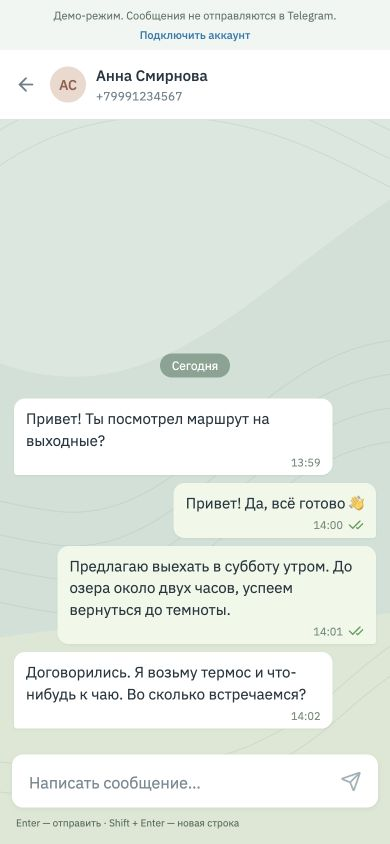
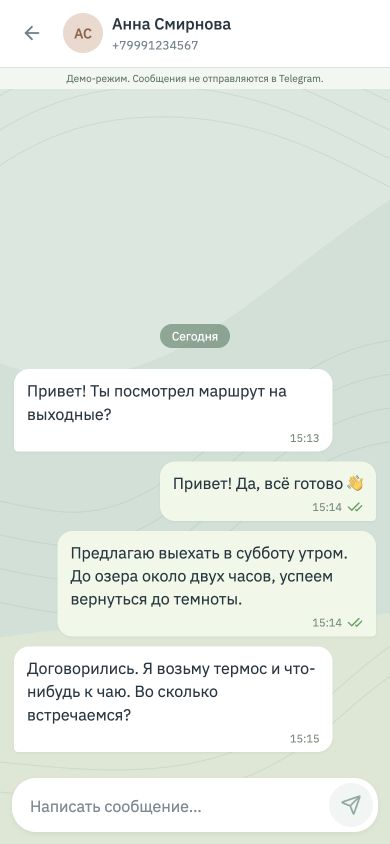
feat(ui): improve mobile chat layout and interactions
- Refine login, chat list and conversation layouts
- Present the new chat dialog as a bottom sheet on mobile
- Increase touch targets and account for safe-area insets
- Adapt the composer to visual viewport changes
- Add a viewport regression test

Changed region(s): [[0.0308, 0.3697, 0.9846, 0.9858], [0.0, 0.0, 1.0, 0.154], [0.0615, 0.0308, 0.0923, 0.0616]]

diff --git a/src/styles.css b/src/styles.css
@@ -35,7 +35,7 @@ label { display: block; font-size: 13px; font-weight: 500; margin-bottom: 8px; }
 .login-page, .workspace { max-width: 1400px; height: calc(100dvh - 40px); min-height: 480px; margin: 0 auto; border: 1px solid #ccd8dc; border-radius: 12px; overflow: hidden; background: #fff; }
 .login-page { display: grid; grid-template-columns: 370px minmax(0, 1fr); }
 .login-panel { display: flex; flex-direction: column; padding: 25px 30px 22px; overflow-y: auto; border-right: 1px solid #dde6e8; }
-.login-panel > .brand { margin-bottom: 26px; }
+.login-brand { margin-bottom: 26px; }
 .login-content { margin: auto 0; }
 .login-content h1 { font-size: 24px; font-weight: 500; line-height: 1.3; letter-spacing: -.6px; margin: 0 0 12px; }
 .login-intro { color: #607581; font-size: 14px; line-height: 1.55; margin: 0 0 27px; }
@@ -182,38 +182,93 @@ label { display: block; font-size: 13px; font-weight: 500; margin-bottom: 8px; }
 }
 @media (max-width: 720px) {
   body { padding: 0; }
-  .workspace, .login-page { height: 100dvh; min-height: 0; border: 0; border-radius: 0; }
-  .login-page { display: block; height: auto; min-height: 100dvh; }
-  .login-panel { min-height: 100dvh; padding: 25px max(26px, calc((100vw - 380px) / 2)); border: 0; }
-  .login-panel > .brand { margin-bottom: 26px; }
-  .login-content { margin: auto 0; }
-  .login-content h1 { font-size: 26px; }
+  .workspace, .login-page { height: var(--mobile-height, 100dvh); min-height: 0; border: 0; border-radius: 0; }
+  .login-page { display: block; height: auto; min-height: var(--mobile-height, 100dvh); background: #fff; }
+  .login-panel { min-height: var(--mobile-height, 100dvh); padding: 0; border: 0; overflow: visible; }
+  .login-brand { background: #d9e8de url('/conversation-paper.svg') center 42% / cover; padding: max(28px, env(safe-area-inset-top)) max(26px, calc((100vw - 380px) / 2)) 32px; margin: 0; }
+  .login-brand .brand { gap: 12px; }
+  .login-brand .brand img { width: 42px; height: 42px; }
+  .login-brand .brand span { font-size: 22px; font-weight: 500; }
+  .login-content { padding: 30px max(26px, calc((100vw - 380px) / 2)) 24px; margin: 0; }
+  .login-content h1 { font-size: 26px; line-height: 1.3; margin-bottom: 12px; }
+  .login-intro { margin-bottom: 28px; font-size: 15px; }
+  .input-with-icon { height: 52px; margin-bottom: 22px; border-radius: 10px; background: #fafcfc; padding-left: 14px; }
+  .input-with-icon input, .connection-details input, .new-chat-dialog input { font-size: 16px; }
+  .input-with-icon .icon-button { width: 44px; height: 44px; margin-right: -8px; }
+  .connection-details summary { min-height: 44px; padding-top: 12px; }
+  .connection-details { margin-bottom: 17px; }
+  .primary-button, .demo-button { min-height: 50px; font-size: 15px; border-radius: 10px; }
+  .privacy-note { font-size: 12px; margin-top: 23px; }
+  .setup-note { margin: auto max(26px, calc((100vw - 380px) / 2)) 0; padding: 17px 0 max(24px, env(safe-area-inset-bottom)); }
   .login-canvas { display: none; }
   .workspace { display: block; }
   .sidebar { height: 100%; border: 0; }
-  .workspace-top { padding: 20px 22px 13px; }
-  .sidebar-header { padding: 15px 23px 20px; }
-  .sidebar-header h1 { font-size: 25px; }
-  .search-field { height: 43px; margin-bottom: 18px; }
-  .chat-row { padding: 15px 22px; }
-  .avatar { width: 51px; height: 51px; }
-  .conversation { display: none; }
+  .workspace-top { padding: max(14px, env(safe-area-inset-top)) 20px 8px; }
+  .workspace-top .brand img { width: 27px; height: 27px; }
+  .workspace-top .brand span { font-size: 17px; font-weight: 500; }
+  .icon-button { width: 44px; height: 44px; }
+  .workspace-top nav { gap: 0; }
+  .sidebar-header { padding: 4px 22px 17px; }
+  .sidebar-header h1 { font-size: 32px; letter-spacing: -.8px; }
+  .sidebar-header h1 span { font-size: 15px; margin-left: 2px; }
+  .new-chat-button { width: 44px; height: 44px; background: #197bb0; color: #fff; }
+  .search-field { height: 46px; margin: 0 20px 16px; border-radius: 12px; padding: 0 14px; }
+  .search-field input { font-size: 16px; }
+  .search-field .icon-button { width: 44px; height: 44px; margin-right: -12px; }
+  .chat-row { padding: 17px 22px; gap: 13px; position: relative; align-items: flex-start; }
+  .chat-row::after { content: ''; position: absolute; height: 1px; background: #edf1f2; bottom: 0; left: 89px; right: 22px; }
+  .chat-row.selected::after { background: transparent; }
+  .avatar { width: 54px; height: 54px; font-size: 18px; }
+  .chat-row-top { margin: 1px 0 5px; }
+  .chat-row-top strong { font-size: 16px; }
+  .chat-row-top time { font-size: 12px; }
+  .chat-row-preview { align-items: flex-start; }
+  .chat-row-preview > span { display: -webkit-box; -webkit-line-clamp: 2; -webkit-box-orient: vertical; white-space: normal; font-size: 14px; line-height: 1.4; }
+  .unread-badge { min-width: 21px; height: 21px; margin-top: 1px; }
+  .sidebar-footer { padding: 10px 22px max(12px, env(safe-area-inset-bottom)); min-height: 55px; }
+  .sidebar-footer button { min-height: 44px; padding-left: 12px; }
+  .conversation { display: none; background-position: center; }
   .workspace.has-selection .sidebar, .workspace.help-open .sidebar { display: none; }
   .workspace.has-selection .conversation, .workspace.help-open .conversation { display: flex; height: 100%; }
-  .back-button { display: flex; width: 28px; }
-  .conversation-header { padding: 12px; gap: 10px; }
-  .conversation-header h2 { font-size: 15px; }
-  .avatar.small { height: 36px; width: 36px; }
-  .demo-banner { font-size: 11px; padding: 7px 13px; }
-  .demo-banner button { font-size: 11px; }
-  .message-scroll { padding: 21px 14px 8px; }
-  .message-bubble { max-width: 88%; }
-  .message-bubble p { font-size: 15px; }
-  .composer-area { padding: 10px 12px max(15px, env(safe-area-inset-bottom)); }
-  .composer textarea { font-size: 16px; }
-  .composer-hint { font-size: 10px; }
-  .composer-hint > span:last-child { display: none; }
+  .back-button { display: flex; width: 44px; margin-left: -5px; }
+  .conversation-header { padding: max(9px, env(safe-area-inset-top)) 15px 10px; gap: 9px; min-height: 68px; order: -2; }
+  .conversation-person { min-width: 0; flex: 1; }
+  .conversation-header h2 { font-size: 16px; white-space: nowrap; text-overflow: ellipsis; overflow: hidden; }
+  .conversation-header p { font-size: 12px; }
+  .avatar.small { height: 40px; width: 40px; font-size: 14px; }
+  .demo-banner { order: -1; font-size: 10px; padding: 3px 12px; gap: 0 8px; flex-wrap: nowrap; background: #f2f7f2; }
+  .demo-banner button { display: none; }
+  .message-scroll { padding: 24px 14px 6px; }
+  .message-bubble { max-width: 88%; padding: 10px 13px 6px; border-radius: 15px 15px 15px 4px; }
+  .outgoing .message-bubble { border-radius: 15px 15px 4px 15px; }
+  .message-bubble p { font-size: 16px; line-height: 1.45; }
+  .message-meta { margin-top: 4px; }
+  .message-row { margin-bottom: 10px; }
+  .composer-area { padding: 10px 12px max(12px, env(safe-area-inset-bottom)); }
+  .composer { border-radius: 24px; padding: 5px 5px 5px 18px; gap: 7px; }
+  .composer textarea { font-size: 16px; padding: 12px 0 10px; }
+  .send-button { width: 44px; height: 44px; background: #197bb0; color: #fff; }
+  .send-button:hover { background: #126c9d; }
+  .send-button:disabled { background: #f0f5f4; color: #8caaa0; }
+  .composer-hint { display: none; }
   .welcome h2 { font-size: 22px; }
+  .new-chat-dialog { position: fixed; inset: auto 0 0; margin: 0; width: 100%; max-width: 100%; max-height: calc(var(--mobile-height, 100dvh) - 24px); overflow-y: auto; border-radius: 24px 24px 0 0; padding: 30px 26px max(28px, env(safe-area-inset-bottom)); box-shadow: 0 -12px 50px #243e2c20; }
+  .new-chat-dialog::backdrop { background: #26364066; }
+  .dialog-close { top: 17px; right: 18px; }
+  .new-chat-dialog h2 { font-size: 26px; margin-bottom: 14px; padding-right: 44px; }
+  .new-chat-dialog > p { font-size: 15px; margin-bottom: 27px; }
+  .new-chat-dialog input { height: 54px; border-radius: 10px; background: #fafcfc; }
+  .new-chat-dialog small { font-size: 12px; line-height: 1.5; }
+  .new-chat-dialog .primary-button { margin-top: 28px; }
+}
+@media (max-width: 720px) and (max-height: 560px) {
+  .login-brand { padding-top: 16px; padding-bottom: 18px; }
+  .login-content { padding-top: 22px; }
+  .conversation-header { padding-top: 7px; padding-bottom: 7px; min-height: 60px; }
+  .message-scroll { padding-top: 14px; }
+  .new-chat-dialog { padding-top: 23px; padding-bottom: 20px; }
+  .new-chat-dialog > p { margin-bottom: 17px; }
+  .new-chat-dialog .primary-button { margin-top: 18px; }
 }
 @media (prefers-reduced-motion: reduce) { *, *::before, *::after { animation-duration: .01ms !important; transition-duration: .01ms !important; scroll-behavior: auto !important; } }
 

diff --git a/src/components/ChatWorkspace.tsx b/src/components/ChatWorkspace.tsx
@@ -1,10 +1,11 @@
-import { useEffect, useMemo, useReducer, useRef, useState, type FormEvent } from 'react';
+import { useEffect, useMemo, useReducer, useRef, useState, type CSSProperties, type FormEvent } from 'react';
 import { ArrowLeft, Check, CheckCheck, ChevronRight, CircleHelp, LogOut, MessageCircle, Plus, Search, Send, ShieldCheck, X } from 'lucide-react';
 import { createGreenApi, instanceStateMessage } from '../api/greenApi';
 import { delay, pollNotifications } from '../api/polling';
 import { chatReducer, createDemoState, initialChatState } from '../chatState';
 import type { Credentials, Message } from '../types';
 import Brand from './Brand';
+import { useMobileViewportHeight } from '../useMobileViewportHeight';
 import NewChatDialog from './NewChatDialog';
 
 export type Session = { mode: 'demo' } | { mode: 'live'; credentials: Credentials; statusesEnabled: boolean };
@@ -25,6 +26,7 @@ function Avatar({ name, index = 0, small = false }: { name: string; index?: numb
 
 export default function ChatWorkspace({ session, onLogout }: { session: Session; onLogout: () => void }) {
   const demo = session.mode === 'demo';
+  const viewportHeight = useMobileViewportHeight();
   const name = 'Telegram';
   const [state, dispatch] = useReducer(chatReducer, undefined, () => demo ? createDemoState() : initialChatState);
   const [newChatOpen, setNewChatOpen] = useState(false);
@@ -80,6 +82,9 @@ export default function ChatWorkspace({ session, onLogout }: { session: Session;
 
   useEffect(() => { bottom.current?.scrollIntoView({ behavior: 'instant', block: 'end' }); }, [selected?.id, selected?.messages, typing]);
   useEffect(() => {
+    if (document.activeElement === textarea.current) bottom.current?.scrollIntoView({ block: 'end' });
+  }, [viewportHeight]);
+  useEffect(() => {
     if (textarea.current) {
       textarea.current.style.height = 'auto';
       textarea.current.style.height = `${Math.min(textarea.current.scrollHeight, 140)}px`;
@@ -130,7 +135,7 @@ export default function ChatWorkspace({ session, onLogout }: { session: Session;
   }
   function submit(event: FormEvent) { event.preventDefault(); void send(); }
 
-  return <main className={`workspace ${selected ? 'has-selection' : ''} ${helpOpen ? 'help-open' : ''}`}>
+  return <main className={`workspace ${selected ? 'has-selection' : ''} ${helpOpen ? 'help-open' : ''}`} style={viewportHeight ? { '--mobile-height': `${viewportHeight}px` } as CSSProperties : undefined}>
     <aside className="sidebar" aria-label="Список чатов">
       <div className="workspace-top"><Brand /><nav aria-label="Приложение"><button className="icon-button" onClick={() => setHelpOpen(!helpOpen)} aria-label="Помощь" aria-expanded={helpOpen}><CircleHelp size={20} /></button><button className="icon-button" onClick={onLogout} aria-label="Выйти" title="Выйти"><LogOut size={20} /></button></nav></div>
       <header className="sidebar-header"><h1>Чаты <span>{state.chats.length}</span></h1><button className="icon-button new-chat-button" aria-label="Новый чат" title="Новый чат" onClick={() => setNewChatOpen(true)}><Plus size={22} /></button></header>
@@ -152,7 +157,7 @@ export default function ChatWorkspace({ session, onLogout }: { session: Session;
       {!demo && connectionError && <div className="connection-banner" role="status"><span>{connectionError}{connection === 'reconnecting' && ' Повторяем подключение автоматически.'}</span>{connection === 'stopped' && <button onClick={() => setRetryEpoch(n => n + 1)}>Переподключиться</button>}</div>}
       {helpOpen && <div className="help-panel"><div><strong>Как пользоваться чатом</strong><button className="icon-button" onClick={() => setHelpOpen(false)} aria-label="Закрыть помощь"><X size={18} /></button></div><p>Создайте чат по номеру телефона и отправьте сообщение. Ответы появятся автоматически. Enter — отправить, Shift + Enter — новая строка.</p><p>Для подключения: авторизованный инстанс {name}, пустой Webhook URL и включённые входящие уведомления. История хранится в памяти до выхода или перезагрузки.</p><a href="https://green-api.com/telegram/docs/api/receiving/technology-http-api/" target="_blank" rel="noreferrer">Инструкция GREEN-API</a></div>}
       {selected ? <>
-        <header className="conversation-header"><button className="icon-button back-button" aria-label="Назад к чатам" onClick={() => dispatch({ type: 'select', id: null })}><ArrowLeft size={22} /></button><Avatar name={selected.name} index={state.chats.indexOf(selected)} small /><div><h2>{selected.name}</h2><p>{typing === selected.id ? 'Печатает…' : selected.phone ? `+${selected.phone}` : name}</p></div><span className="text-only"><MessageCircle size={16} /> Telegram</span></header>
+        <header className="conversation-header"><button className="icon-button back-button" aria-label="Назад к чатам" onClick={() => dispatch({ type: 'select', id: null })}><ArrowLeft size={22} /></button><Avatar name={selected.name} index={state.chats.indexOf(selected)} small /><div className="conversation-person"><h2>{selected.name}</h2><p>{typing === selected.id ? 'Печатает…' : selected.phone ? `+${selected.phone}` : name}</p></div><span className="text-only"><MessageCircle size={16} /> Telegram</span></header>
         <div className="message-scroll" role="log" aria-label="Сообщения чата" aria-live="polite" aria-relevant="additions text">
           <div className="message-container">
             {selected.messages.length === 0 && <div className="chat-start"><Avatar name={selected.name} index={state.chats.indexOf(selected)} /><h3>Начните разговор</h3><p>Напишите первое сообщение {selected.phone ? `на номер +${selected.phone}` : 'в этом чате'}.</p></div>}

diff --git a/src/components/Login.tsx b/src/components/Login.tsx
@@ -1,14 +1,16 @@
-import { useEffect, useRef, useState, type FormEvent } from 'react';
+import { useEffect, useRef, useState, type CSSProperties, type FormEvent } from 'react';
 import { Eye, EyeOff, KeyRound, LockKeyhole, ShieldCheck } from 'lucide-react';
 import { createGreenApi, normalizeCredentials } from '../api/greenApi';
 import type { Credentials } from '../types';
 import Brand from './Brand';
+import { useMobileViewportHeight } from '../useMobileViewportHeight';
 
 export default function Login({ onConnect, onDemo }: {
   onConnect: (credentials: Credentials, statusesEnabled: boolean) => void;
   onDemo: () => void;
 }) {
   const name = 'Telegram';
+  const viewportHeight = useMobileViewportHeight();
   const [id, setId] = useState('');
   const [token, setToken] = useState('');
   const [url, setUrl] = useState('');
@@ -39,9 +41,9 @@ export default function Login({ onConnect, onDemo }: {
     }
   }
 
-  return <main className="login-page">
+  return <main className="login-page" style={viewportHeight ? { '--mobile-height': `${viewportHeight}px` } as CSSProperties : undefined}>
     <section className="login-panel" aria-labelledby="login-title">
-      <Brand />
+      <div className="login-brand"><Brand /></div>
       <div className="login-content">
         <h1 id="login-title">Подключение Telegram</h1>
         <p className="login-intro">Введите данные инстанса из <a href="https://console.green-api.com/" target="_blank" rel="noreferrer">кабинета GREEN-API</a>.</p>

diff --git a/src/components/NewChatDialog.tsx b/src/components/NewChatDialog.tsx
@@ -14,6 +14,7 @@ export default function NewChatDialog({ onClose, onCreate }: {
   useEffect(() => {
     const element = dialog.current!;
     element.showModal();
+    element.querySelector<HTMLInputElement>('input')?.focus();
     return () => { controller.current?.abort(); element.close(); };
   }, []);
   async function submit(e: FormEvent) {
@@ -29,7 +30,7 @@ export default function NewChatDialog({ onClose, onCreate }: {
     catch (e) { if (!pending.signal.aborted) setError((e as Error).message); }
     finally { if (!pending.signal.aborted) setBusy(false); }
   }
-  return <dialog ref={dialog} className="new-chat-dialog" aria-labelledby="new-chat-title" onCancel={onClose} onClick={e => { if (e.target === e.currentTarget) onClose(); }}>
+  return <dialog ref={dialog} className="new-chat-dialog" aria-labelledby="new-chat-title" onCancel={onClose} onClick={e => { if (e.target !== e.currentTarget) return; const bounds = e.currentTarget.getBoundingClientRect(); if (e.clientX < bounds.left || e.clientX > bounds.right || e.clientY < bounds.top || e.clientY > bounds.bottom) onClose(); }}>
     <button className="icon-button dialog-close" onClick={onClose} aria-label="Закрыть"><X size={21} /></button>
     <h2 id="new-chat-title">Новый чат</h2>
     <p>Введите номер человека, с которым хотите связаться в Telegram.</p>

diff --git a/src/useMobileViewportHeight.test.ts b/src/useMobileViewportHeight.test.ts
@@ -1,0 +1,18 @@
+import { act, renderHook } from '@testing-library/react';
+import { expect, it, vi } from 'vitest';
+import { useMobileViewportHeight } from './useMobileViewportHeight';
+
+it('follows the mobile visual viewport and restores the desktop layout', () => {
+  const viewport = Object.assign(new EventTarget(), { height: 844 });
+  vi.stubGlobal('visualViewport', viewport);
+  vi.stubGlobal('innerWidth', 390);
+  const { result, unmount } = renderHook(useMobileViewportHeight);
+  expect(result.current).toBe(844);
+  act(() => { viewport.height = 440; viewport.dispatchEvent(new Event('resize')); });
+  expect(result.current).toBe(440);
+  act(() => { vi.stubGlobal('innerWidth', 1280); window.dispatchEvent(new Event('resize')); });
+  expect(result.current).toBeUndefined();
+  const removeViewportListener = vi.spyOn(viewport, 'removeEventListener');
+  unmount();
+  expect(removeViewportListener).toHaveBeenCalledWith('resize', expect.any(Function));
+});

diff --git a/src/useMobileViewportHeight.ts b/src/useMobileViewportHeight.ts
@@ -1,0 +1,19 @@
+import { useEffect, useState } from 'react';
+
+// Mobile keyboards can resize the visual viewport without resizing the layout viewport.
+export function useMobileViewportHeight() {
+  const [height, setHeight] = useState<number>();
+  useEffect(() => {
+    const viewport = window.visualViewport;
+    const update = () => setHeight(window.innerWidth <= 720
+      ? Math.round(viewport?.height ?? window.innerHeight) : undefined);
+    update();
+    viewport?.addEventListener('resize', update);
+    window.addEventListener('resize', update);
+    return () => {
+      viewport?.removeEventListener('resize', update);
+      window.removeEventListener('resize', update);
+    };
+  }, []);
+  return height;
+}

diff --git a/README.md b/README.md
@@ -39,7 +39,7 @@ npm run dev
 - Статусы очереди, доставки, прочтения и ошибки. Одна галочка означает принятие GREEN-API в очередь, а не доставку адресату.
 - Восстановление опроса с задержкой после временных сбоев; ручное переподключение после ошибок доступа/настроек.
 - Повторная отправка неудачного сообщения. При таймауте сначала проверьте мессенджер: сервер мог принять запрос, хотя браузер не получил ответ. Автоматического повторения отправки нет.
-- Адаптивный интерфейс: на телефоне список и переписка отображаются отдельно, есть кнопка возврата.
+- На телефоне список и переписка отображаются отдельно. Крупные зоны нажатия, превью в две строки, создание чата через нижнюю панель. Поле ввода учитывает уменьшение visual viewport и safe-area.
 - Токен, переписки и черновики находятся **только в памяти вкладки**. При выходе или перезагрузке они очищаются. Уже подтверждённые уведомления из очереди не восстанавливаются; загрузка прошлой истории не входит в задание.
 
 Приложение — клиент для тестового задания, не официальный веб-клиент Telegram. Данные доступа отправляются напрямую на HTTPS API GREEN-API, без собственного backend. Разрешены только хосты GREEN-API. Токен не записывается в localStorage, sessionStorage, cookies или логи приложения. Браузерная панель Network всё равно показывает запросы с ключом, как и для любого прямого клиента этого API.
@@ -98,6 +98,10 @@ src/
 ![Экран входа](docs/screenshots/login.jpg)
 
 ![Чат на телефоне](docs/screenshots/chat-mobile.jpg)
+
+![Список чатов на телефоне](docs/screenshots/inbox-mobile.jpg)
+
+![Новый чат на телефоне](docs/screenshots/new-chat-mobile.jpg)
 
 ## Документация API
 

diff --git a/docs/design-notes.md b/docs/design-notes.md
@@ -35,3 +35,16 @@ Login uses the same two-pane shell. The left pane contains the actual connection
 A blue sidebar plus rounded tiles would repeat the SaaS kit. Revise to a white inbox with edge-to-edge conversation rows and one selected-row tint. Keep normal title case, restrained weights, circular contact avatars and no floating card shadows. The wallpaper is the single expressive element: large flat shapes and thin folding contours, inspired by Telegram's paper plane. Messages remain visually quiet and legible.
 
 All existing API behavior remains intact. Verify login, chat, dialog and mobile layouts with browser screenshots.
+
+## Mobile composition
+
+Reuse Paper #ffffff, Ink #263640, Secondary #607581, Telegram blue #197bb0, Sea glass #d9e8de and Reply paper #eff8e9. IBM Plex Sans remains the only family: 30px inbox title, 26px connection title, 16px names/input/message text, 14px previews, 12px timestamps.
+
+    Inbox                  Conversation           New chat
+    Telegram    help exit  back  avatar name      existing screen dimmed
+    Chats             +    short demo notice     ----------------------
+    Search                 incoming              New chat          close
+    avatar name     time            outgoing     Phone
+           preview         message composer      Create chat
+
+Mobile uses one screen at a time. Keep the existing paper canvas as the sole expressive element; do not invent navigation tabs for features this client does not have. Give the connection screen a short paper masthead instead of a marketing hero. Avoid placing a floating action over status controls: the create-chat action remains in the inbox header. Every action has a 44px target, contact previews can use two lines, long conversation titles truncate, and safe-area insets protect the composer and sheet. The sheet is visibly a dialog, with a close button, not a fake draggable handle. Short viewports and visual-viewport changes should leave the composer reachable while the message log scrolls.
